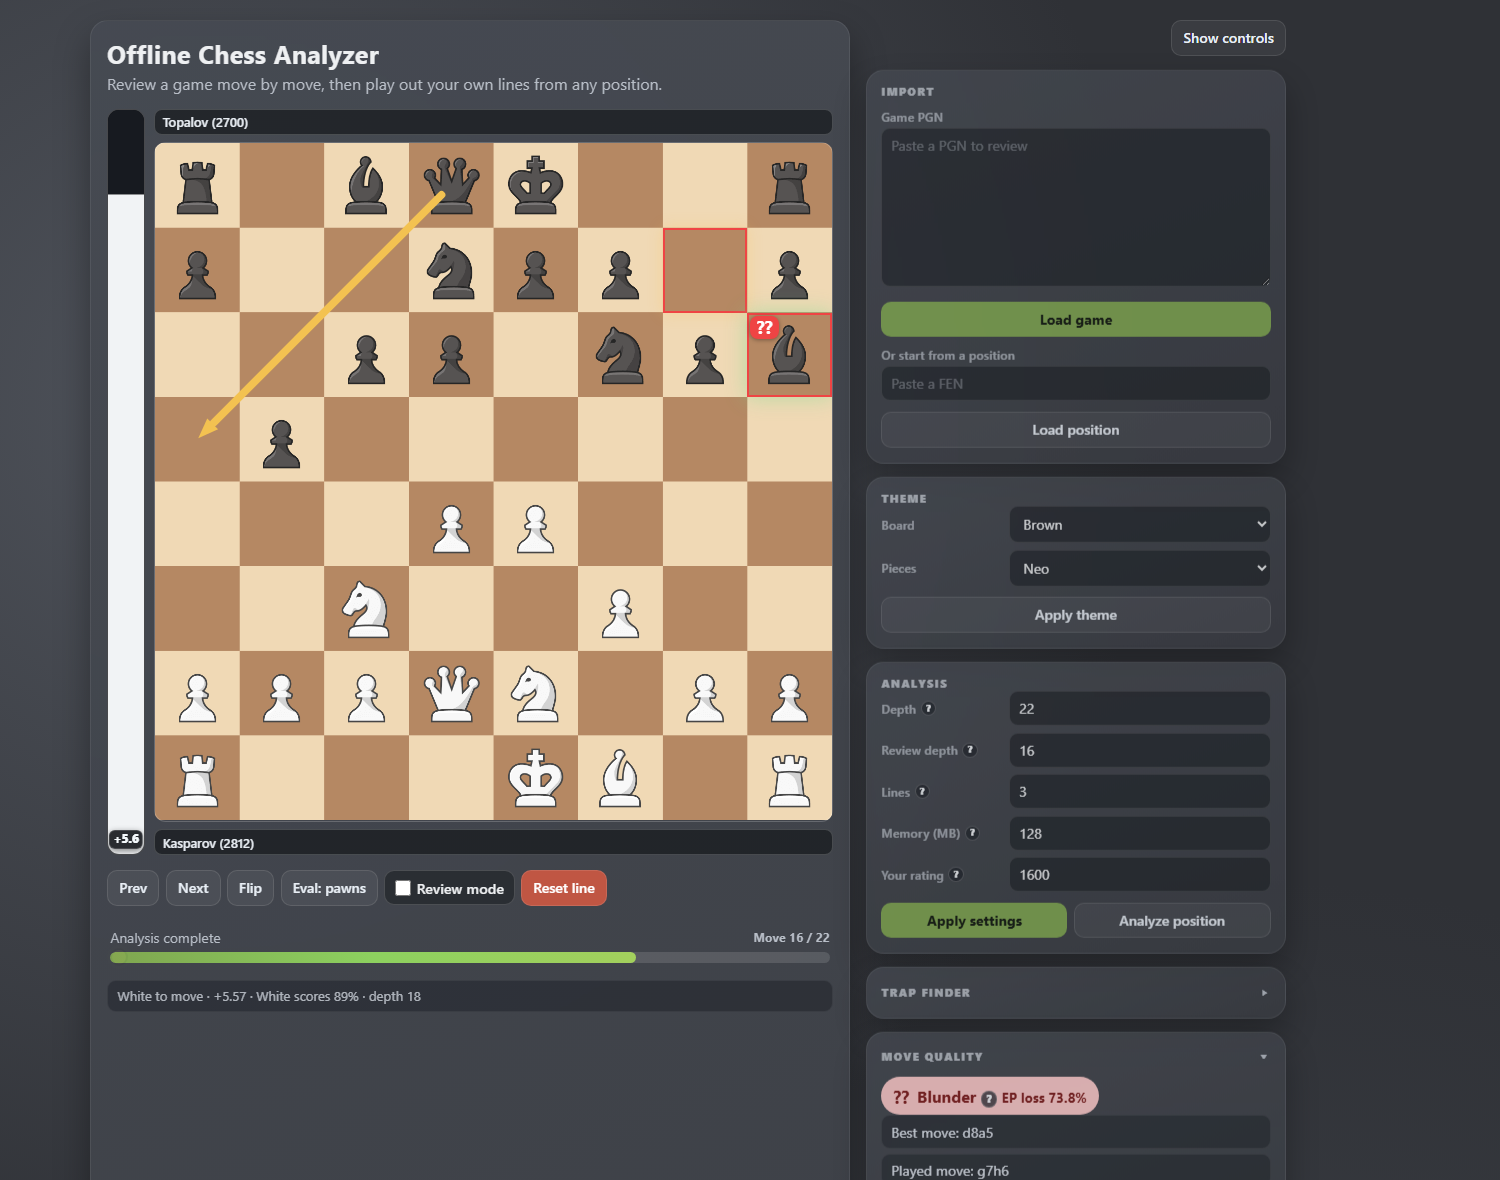
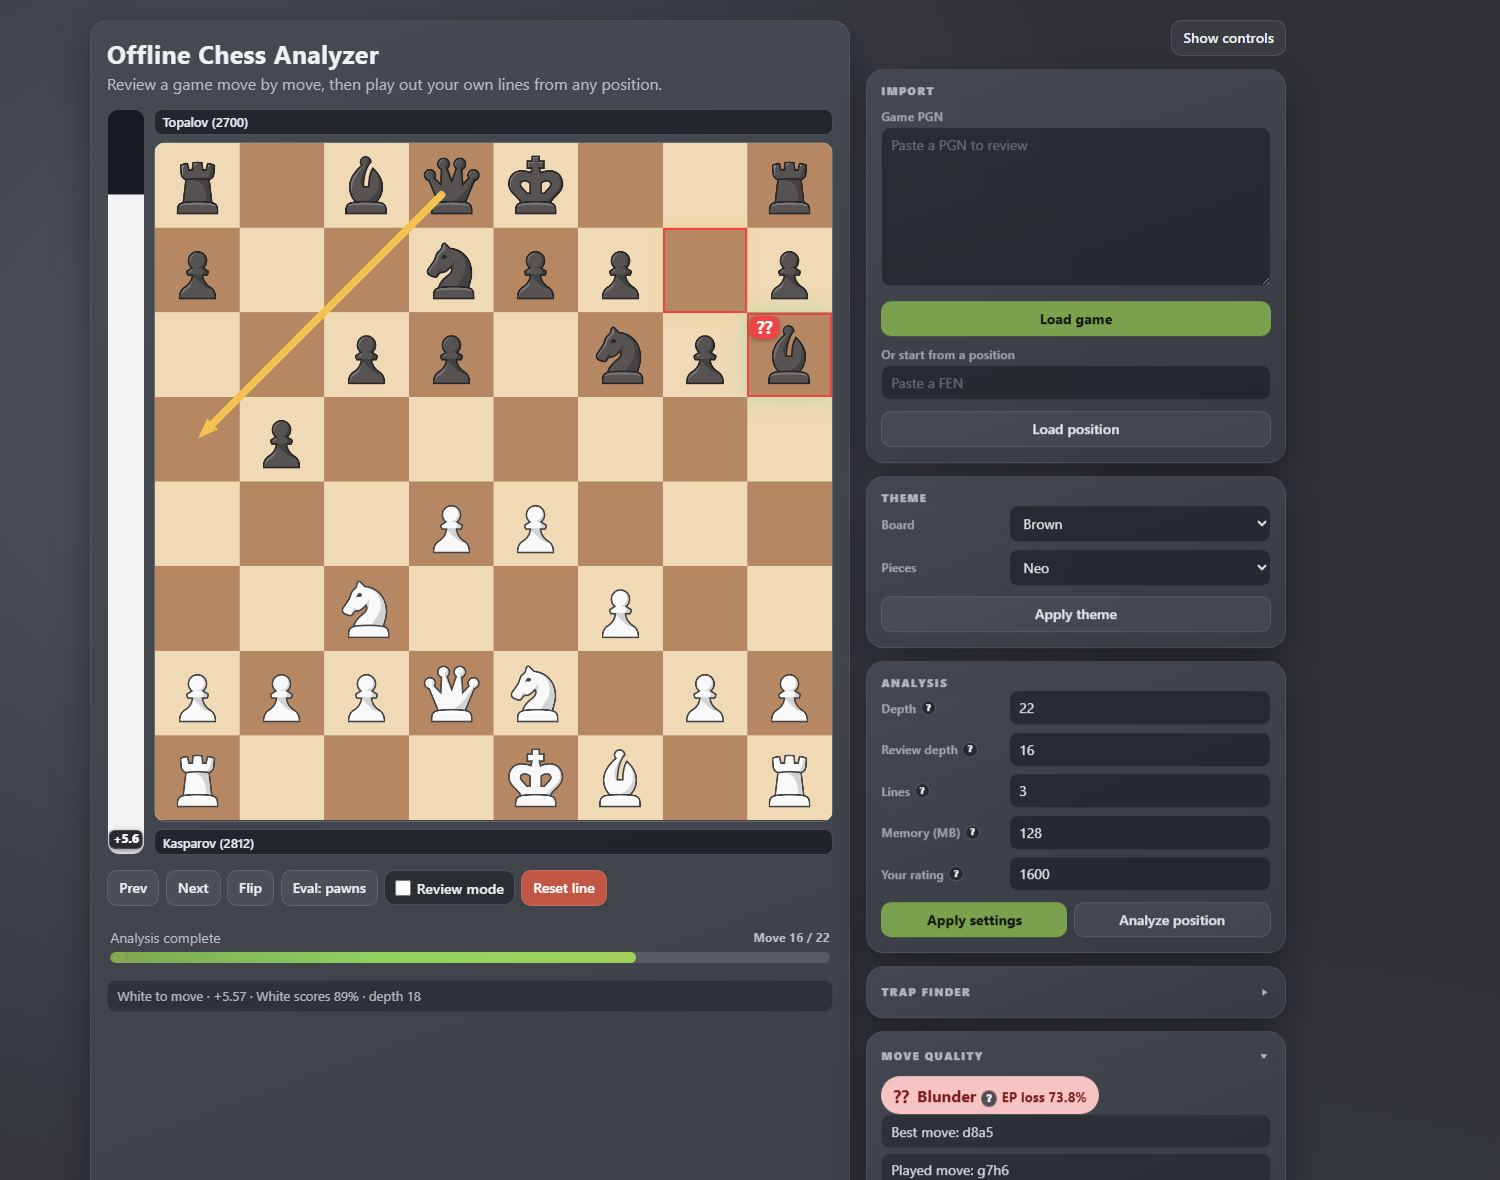
docs(readme): show the trap finder, and frame both screenshots better
The hero shot was current, but the trap finder ships collapsed, so the
panel the last release was built around never appeared in it. Added a
second shot from `--traps`, placed in the Trap finder section where it
illustrates the prose rather than sitting in a gallery at the top.

Both images now link to the full-size file and carry a caption, and the
captions say the numbers come from a stubbed engine and explorer — the
snapshot harness fakes both, so the evaluations are illustrative.

`--clip` framed everything at 560x900, which cut the trap panel off
halfway down its second card. Added `--width` and `--window-size` so a
clipped shot can be framed to what it clipped; the defaults are
unchanged, so the existing tooltip shots render as before.

diff --git a/README.md b/README.md
@@ -12,7 +12,10 @@
 [![Tests](https://img.shields.io/badge/tests-node%3Atest-6c8ebf?style=flat-square)](#testing)
 [![License](https://img.shields.io/badge/license-ISC-8a8f98?style=flat-square)](#license)
 
-<img src="docs/screenshot.png" alt="The analyzer reviewing a game: board with the best-move arrow and evaluation bar, and a side panel with import, theme, analysis settings, the trap finder and move quality." width="900" />
+<a href="docs/screenshot.png"><img src="docs/screenshot.png" alt="The analyzer reviewing a game: board with the best-move arrow and evaluation bar, and a side panel with import, theme, analysis settings, the trap finder and move quality." width="880" /></a>
+
+<sub>A game under review — the played move graded, the arrow showing what should have been played instead.<br />
+Screenshots are rendered by <code>tools/snapshot.mjs</code> against a stubbed engine and explorer, so the numbers in them are illustrative.</sub>
 
 </div>
 
@@ -279,6 +282,15 @@ That is the whole design, and it is why no scraping is involved. One explorer re
 move distribution over millions of games at a chosen rating band and time control, so a search costs a handful
 of requests rather than a download of anybody's game archive.
 
+<div align="center">
+
+<a href="docs/trap-finder.png"><img src="docs/trap-finder.png" alt="The trap finder panel with two candidate moves, each showing how often opponents walk into it, the expected gain per game, and a breakdown of every reply with the ones that lose highlighted." width="430" /></a>
+
+<sub>Every candidate reports how often opponents walk into it, what it gains per game,<br />
+and which replies throw points away — with what the trapping side actually scored after each.</sub>
+
+</div>
+
 For the position on the board, the finder:
 
 1. asks the explorer which moves are actually played here, and takes the most common as candidates;
@@ -432,7 +444,7 @@ These run against the real engine.
 | `node tools/bench-scan.mjs` | Review speed, per move and per game |
 | `node tools/bench-accuracy.mjs` | What a shallower review costs in labels, scored against a deep one |
 | `node tools/bench-pool.mjs` | Pool scaling across engine counts |
-| `node tools/snapshot.mjs out.png` | Renders the real page to a PNG for looking at UI changes (headless Edge) |
+| `node tools/snapshot.mjs out.png` | Renders the real page to a PNG for looking at UI changes (headless Edge). `--traps` runs a trap search against a stubbed explorer so the panel has results in it; `--clip <selector>` with `--width` / `--window-size` frames a single panel |
 | `node tools/probe/run-probe.mjs` | Loads the extension in real Firefox and reports what the page can actually do — threading, `SharedArrayBuffer`. It swaps the manifest while it runs and restores it afterwards |
 
 ---
